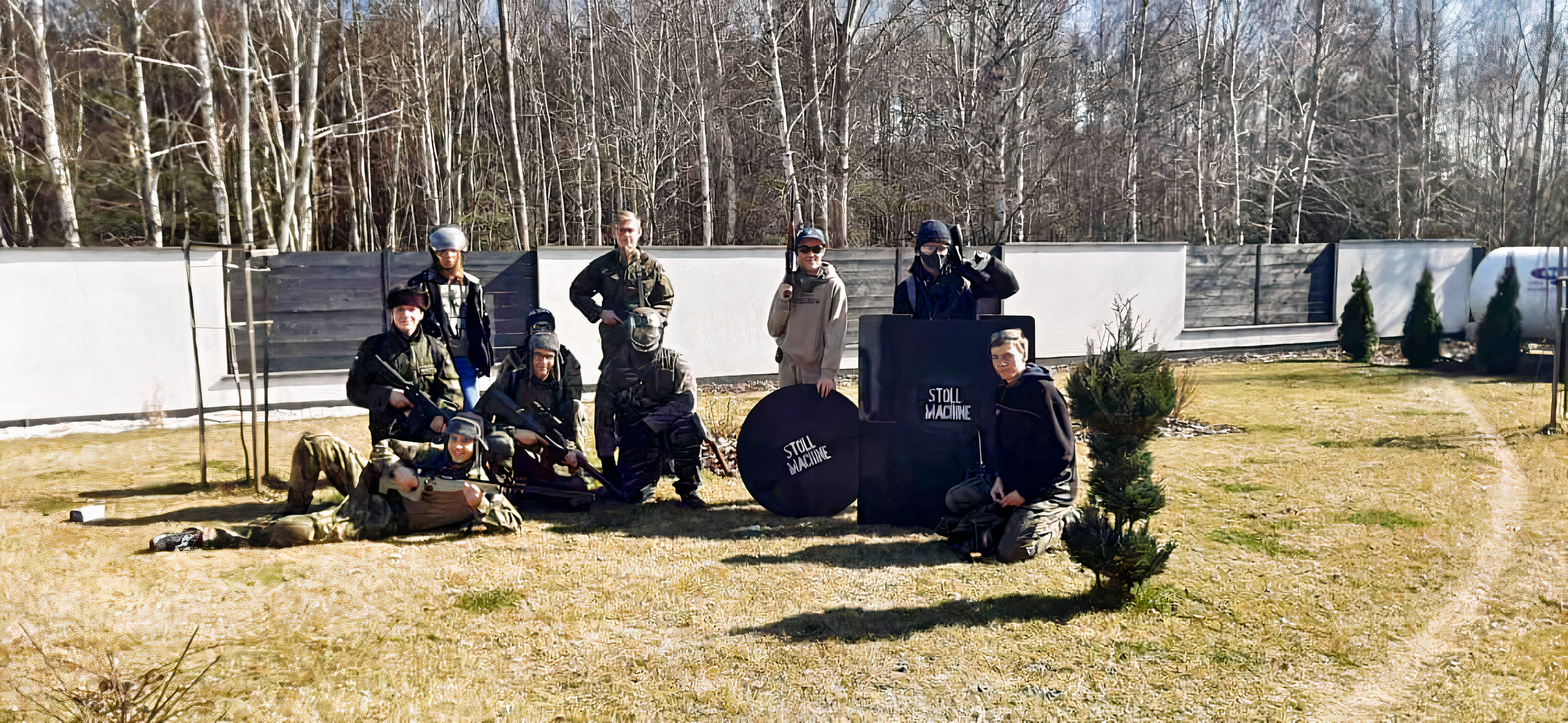
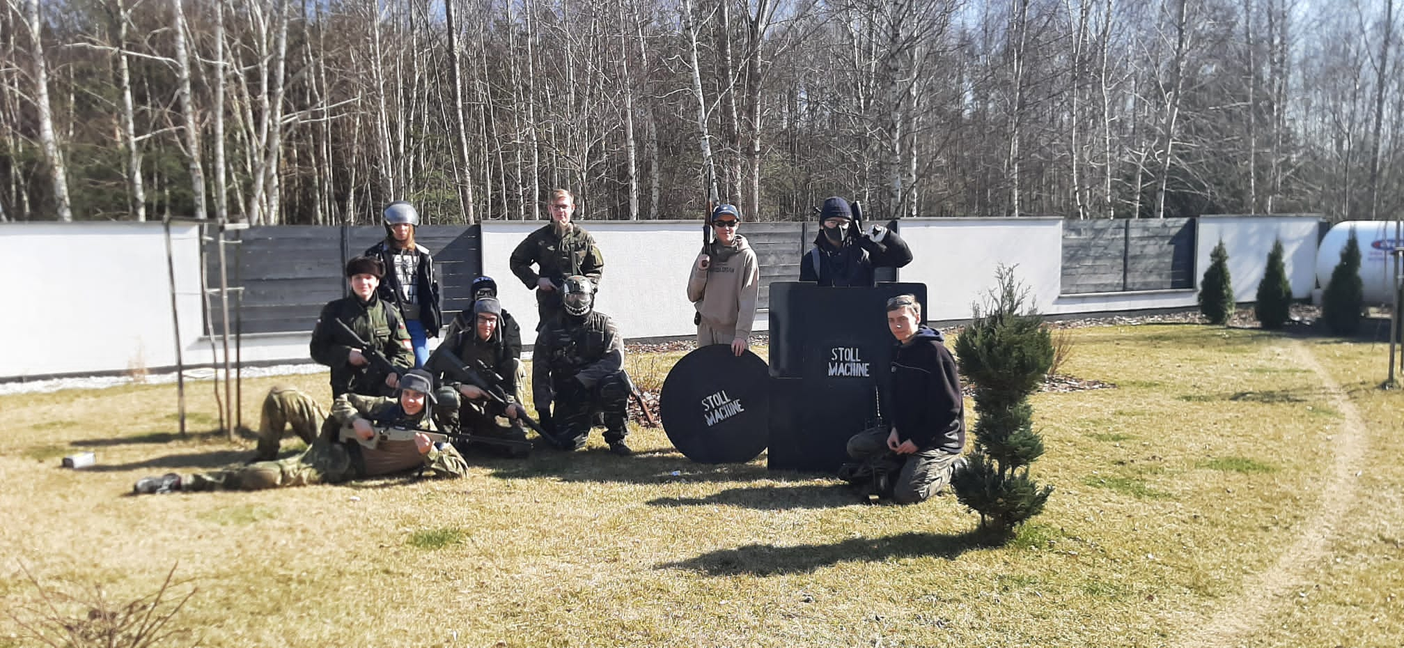
slider

diff --git a/style.css b/style.css
@@ -1,7 +1,7 @@
 html, body{
   margin: 0;
   padding: 0;
-  
+
   width: 100%;
   height: 100%;
   
@@ -26,6 +26,63 @@ html, body{
   float: left;
 }
 
+.slider{
+  position: relative;
+  /*width: 60%;*/
+  overflow: hidden;
+}
+
+.images{
+  display: flex;
+  width: 100%;
+}
+
+.images img{
+  height: 400px;
+  width: 100%;
+  transition: all 0.15s ease;
+}
+
+.images input{
+  display: none;
+}
+
+.dots{
+  display: flex;
+  justify-content: center;
+  margin: 5px;
+}
+
+.dots label{
+  height: 20px;
+  width: 20px;
+  border-radius: 50%;
+  border: solid #fff 3px;
+  cursor: pointer;
+  transition: all 0.15s ease;
+  margin: 5px;
+}
+
+.dots label:hover{
+  background-color: #fff;
+}
+
+#img1:checked ~ .m1 {
+  margin-left: 0;
+}
+
+#img2:checked ~ .m2 {
+  margin-left: -100%;
+}
+
+#img3:checked ~ .m3 {
+  margin-left: -200%;
+}
+
+#img4:checked ~ .m4 {
+  margin-left: -300%;
+}
+
 ol{
   padding: 15px 0 0 100px;
   margin: 100px 400px 0 0;
@@ -48,14 +105,14 @@ ol > li{
   height: 40px;
 }
 
-#team-photo{
+/*#team-photo{
   width: 100%;
   height: 78%;
 
   clear: both;
   margin-bottom: 25px;
   text-align: center;
-}
+}*/
 
 #brek{
   width: 100%;

diff --git a/index.html b/index.html
@@ -43,11 +43,22 @@
 
     <!-- grupowe zdjęcie -->
     <div class="slider">
-      <div id="team-photo">
-        <img src="images/team.jpg" style="width: 100%; height: 100%;"/>
+      <div class="images">
+        <input type="radio" name="slide" id="img1" checked>
+        <input type="radio" name="slide" id="img2">
+        <input type="radio" name="slide" id="img3">
+        <input type="radio" name="slide" id="img4">
+        
+        <img src="images/team.jpg" class="m1" alt="img1" style="width: 100%; height: 100%;"/>
+        <img src="images/team2.jpg" class="m2" alt="img2" style="width: 100%; height: 100%;"/>
+        <img src="images/team3.jpg" class="m3" alt="img3" style="width: 100%; height: 100%;"/>
+        <img src="images/team4.jpg" class="m4" alt="img4" style="width: 100%; height: 100%;"/>
       </div>
       <div class="dots">
-        
+        <label for="img1"></label>
+        <label for="img2"></label>
+        <label for="img3"></label>
+        <label for="img4"></label>
       </div>
     </div>
 
